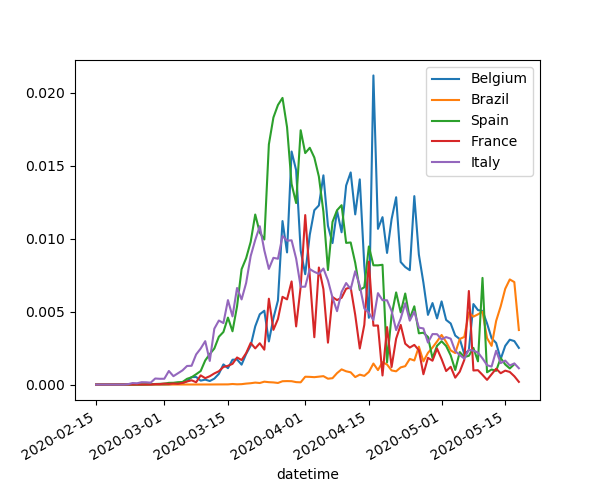
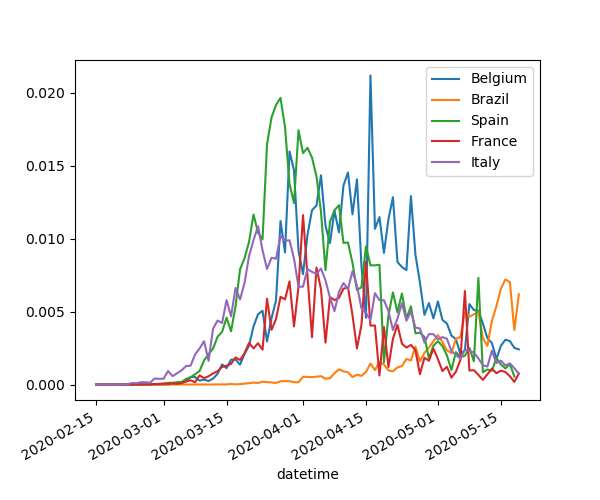
Update covid data

diff --git a/docs/index.html b/docs/index.html
@@ -51,7 +51,7 @@
             <th>Percentage</th>
           </tr>
           <tr>
-          <tr><td>Spain</td><td>11.88 %</td></tr><tr><td>Belize</td><td>11.11 %</td></tr><tr><td>Bahamas</td><td>11.46 %</td></tr><tr><td>Spain</td><td>11.88 %</td></tr><tr><td>Antigua_and_Barbuda</td><td>12.00 %</td></tr><tr><td>Sweden</td><td>12.21 %</td></tr><tr><td>British_Virgin_Islands</td><td>12.50 %</td></tr><tr><td>Netherlands</td><td>12.91 %</td></tr><tr><td>Hungary</td><td>13.07 %</td></tr><tr><td>Italy</td><td>14.15 %</td></tr><tr><td>United_Kingdom</td><td>14.21 %</td></tr><tr><td>Yemen</td><td>15.62 %</td></tr><tr><td>Belgium</td><td>16.37 %</td></tr><tr><td>Sint_Maarten</td><td>19.48 %</td></tr><tr><td>France</td><td>19.74 %</td></tr><tr><td>Nicaragua</td><td>32.00 %</td></tr>
+          <tr><td>Spain</td><td>11.89 %</td></tr><tr><td>Belize</td><td>11.11 %</td></tr><tr><td>Bahamas</td><td>11.46 %</td></tr><tr><td>Spain</td><td>11.89 %</td></tr><tr><td>Antigua_and_Barbuda</td><td>12.00 %</td></tr><tr><td>Sweden</td><td>12.17 %</td></tr><tr><td>British_Virgin_Islands</td><td>12.50 %</td></tr><tr><td>Netherlands</td><td>12.90 %</td></tr><tr><td>Hungary</td><td>13.13 %</td></tr><tr><td>United_Kingdom</td><td>14.12 %</td></tr><tr><td>Italy</td><td>14.17 %</td></tr><tr><td>Yemen</td><td>15.38 %</td></tr><tr><td>Belgium</td><td>16.34 %</td></tr><tr><td>Sint_Maarten</td><td>19.48 %</td></tr><tr><td>France</td><td>19.76 %</td></tr><tr><td>Nicaragua</td><td>32.00 %</td></tr>
 
         
         </table>
